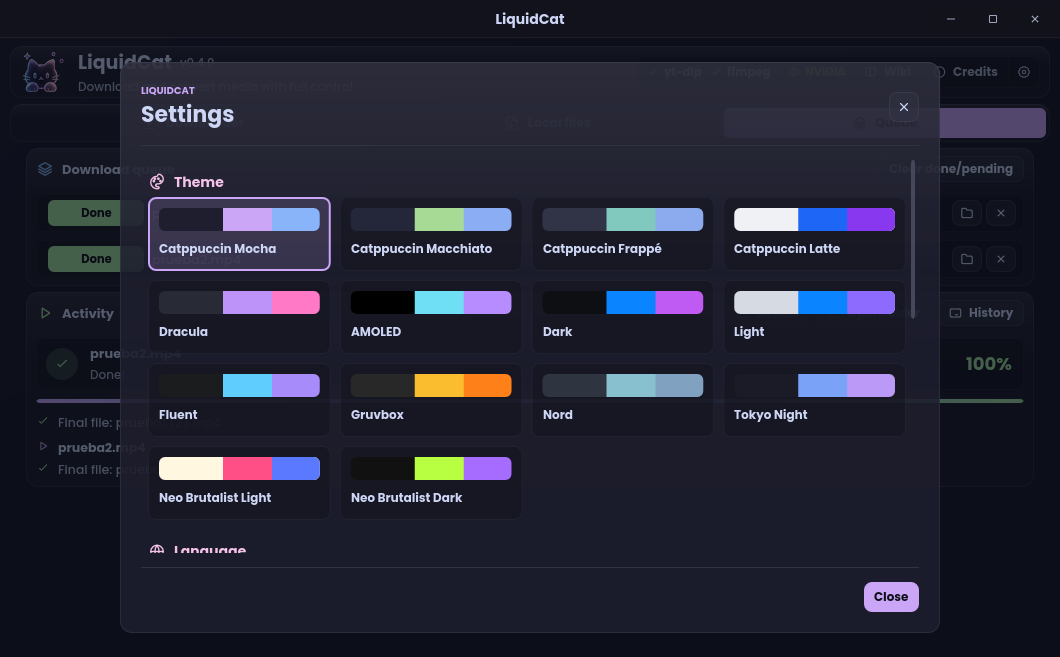
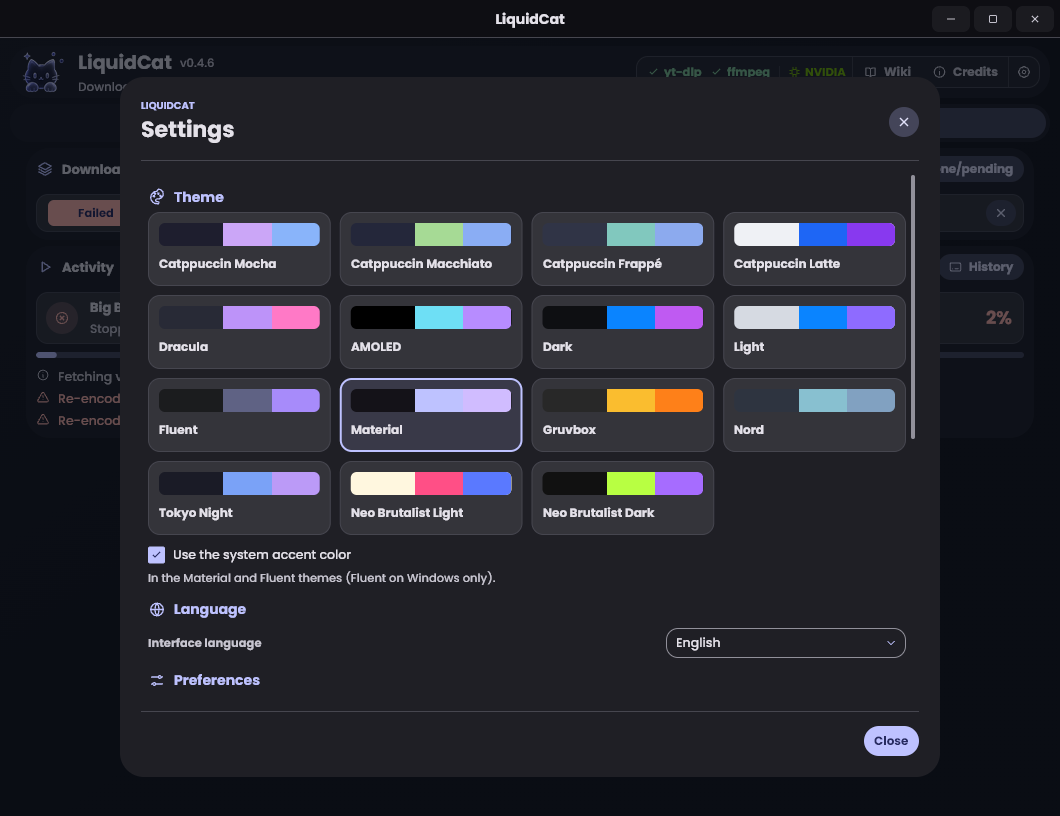
Fix site details and refresh LiquidCat screenshots
- New sharp 0.4.6 screenshots, shown at their real size (no upscaling or
  layer rasterization blur)
- Before/after: the pixelated layer no longer shows behind the sharp one
- Principles rows are vertically centered
- Team: xjuanfxx created LiquidCat, notTao created Meowgnify
- Home ends with links to both products
- Footer wordmark is revealed by the cursor and no longer blocks the text above
- GPU tile shows each vendor's logo; language words never get clipped
- Download files show the format as a tag instead of a dot

diff --git a/liquidcat/index.html b/liquidcat/index.html
@@ -73,7 +73,7 @@
         <div class="tile" data-reveal>
           <h3 data-i18n="lc.t_gpu_h">GPU accelerated</h3>
           <p data-i18n="lc.t_gpu_p">Your graphics card is detected automatically, with the CPU as a fallback.</p>
-          <div class="demo enc" data-demo="encoders"><span>NVENC</span><span>AMF</span><span>Quick Sync</span><span>VAAPI</span><span>VideoToolbox</span><span>CPU</span></div>
+          <div class="demo enc" data-demo="encoders"><span title="NVENC"><svg viewBox="0 0 24 24" fill="currentColor" aria-hidden="true"><path d="M8.948 8.798v-1.43a6.7 6.7 0 0 1 .424-.018c3.922-.124 6.493 3.374 6.493 3.374s-2.774 3.851-5.75 3.851c-.398 0-.787-.062-1.158-.185v-4.346c1.528.185 1.837.857 2.747 2.385l2.04-1.714s-1.492-1.952-4-1.952a6.016 6.016 0 0 0-.796.035m0-4.735v2.138l.424-.027c5.45-.185 9.01 4.47 9.01 4.47s-4.08 4.964-8.33 4.964c-.37 0-.733-.035-1.095-.097v1.325c.3.035.61.062.91.062 3.957 0 6.82-2.023 9.593-4.408.459.371 2.34 1.263 2.73 1.652-2.633 2.208-8.772 3.984-12.253 3.984-.335 0-.653-.018-.971-.053v1.864H24V4.063zm0 10.326v1.131c-3.657-.654-4.673-4.46-4.673-4.46s1.758-1.944 4.673-2.262v1.237H8.94c-1.528-.186-2.73 1.245-2.73 1.245s.68 2.412 2.739 3.11M2.456 10.9s2.164-3.197 6.5-3.533V6.201C4.153 6.59 0 10.653 0 10.653s2.35 6.802 8.948 7.42v-1.237c-4.84-.6-6.492-5.936-6.492-5.936z"/></svg>NVENC</span><span title="AMF"><svg viewBox="0 0 24 24" fill="currentColor" aria-hidden="true"><path d="M18.324 9.137l1.559 1.56h2.556v2.557L24 14.814V9.137zM2 9.52l-2 4.96h1.309l.37-.982H3.9l.408.982h1.338L3.432 9.52zm4.209 0v4.955h1.238v-3.092l1.338 1.562h.188l1.338-1.556v3.091h1.238V9.52H10.47l-1.592 1.845L7.287 9.52zm6.283 0v4.96h2.057c1.979 0 2.88-1.046 2.88-2.472 0-1.36-.937-2.488-2.747-2.488zm1.237.91h.792c1.17 0 1.63.711 1.63 1.57 0 .728-.372 1.572-1.616 1.572h-.806zm-10.985.273l.791 1.932H2.008zm17.137.307l-1.604 1.603v2.25h2.246l1.604-1.607h-2.246z"/></svg>AMF</span><span title="Quick Sync"><svg viewBox="0 0 24 24" fill="currentColor" aria-hidden="true"><path d="M20.42 7.345v9.18h1.651v-9.18zM0 7.475v1.737h1.737V7.474zm9.78.352v6.053c0 .513.044.945.13 1.292.087.34.235.618.44.828.203.21.475.359.803.451.334.093.754.136 1.255.136h.216v-1.533c-.24 0-.445-.012-.593-.037a.672.672 0 0 1-.39-.173.693.693 0 0 1-.173-.377 4.002 4.002 0 0 1-.037-.606v-2.182h1.193v-1.416h-1.193V7.827zm-3.505 2.312c-.396 0-.76.08-1.082.241-.327.161-.6.384-.822.668l-.087.117v-.902H2.658v6.256h1.639v-3.214c.018-.588.16-1.02.433-1.299.29-.297.642-.445 1.044-.445.476 0 .841.149 1.082.433.235.284.359.686.359 1.2v3.324h1.663V12.97c.006-.89-.229-1.595-.686-2.09-.458-.495-1.1-.742-1.917-.742zm10.065.006a3.252 3.252 0 0 0-2.306.946c-.29.29-.525.637-.692 1.033a3.145 3.145 0 0 0-.254 1.273c0 .452.08.878.241 1.274.161.395.39.742.674 1.032.284.29.637.526 1.045.693.408.173.86.26 1.342.26 1.397 0 2.262-.637 2.782-1.23l-1.187-.904c-.248.297-.841.699-1.583.699-.464 0-.847-.105-1.138-.321a1.588 1.588 0 0 1-.593-.872l-.019-.056h4.915v-.587c0-.451-.08-.872-.235-1.267a3.393 3.393 0 0 0-.661-1.033 3.013 3.013 0 0 0-1.02-.692 3.345 3.345 0 0 0-1.311-.248zm-16.297.118v6.256h1.651v-6.256zm16.278 1.286c1.132 0 1.664.797 1.664 1.255l-3.32.006c0-.458.525-1.255 1.656-1.261zm7.073 3.814a.606.606 0 0 0-.606.606.606.606 0 0 0 .606.606.606.606 0 0 0 .606-.606.606.606 0 0 0-.606-.606zm-.008.105a.5.5 0 0 1 .002 0 .5.5 0 0 1 .5.501.5.5 0 0 1-.5.5.5.5 0 0 1-.5-.5.5.5 0 0 1 .498-.5zm-.233.155v.699h.13v-.285h.093l.173.285h.136l-.18-.297a.191.191 0 0 0 .118-.056c.03-.03.05-.074.05-.136 0-.068-.02-.117-.063-.154-.037-.038-.105-.056-.185-.056zm.13.099h.154c.019 0 .037.006.056.012a.064.064 0 0 1 .037.031c.013.013.012.031.012.056a.124.124 0 0 1-.012.055.164.164 0 0 1-.037.031c-.019.006-.037.013-.056.013h-.154Z"/></svg>Quick Sync</span><span title="VAAPI"><svg viewBox="0 0 24 24" fill="currentColor" aria-hidden="true"><path d="M12.504 0c-.155 0-.315.008-.48.021-4.226.333-3.105 4.807-3.17 6.298-.076 1.092-.3 1.953-1.05 3.02-.885 1.051-2.127 2.75-2.716 4.521-.278.832-.41 1.684-.287 2.489a.424.424 0 00-.11.135c-.26.268-.45.6-.663.839-.199.199-.485.267-.797.4-.313.136-.658.269-.864.68-.09.189-.136.394-.132.602 0 .199.027.4.055.536.058.399.116.728.04.97-.249.68-.28 1.145-.106 1.484.174.334.535.47.94.601.81.2 1.91.135 2.774.6.926.466 1.866.67 2.616.47.526-.116.97-.464 1.208-.946.587-.003 1.23-.269 2.26-.334.699-.058 1.574.267 2.577.2.025.134.063.198.114.333l.003.003c.391.778 1.113 1.132 1.884 1.071.771-.06 1.592-.536 2.257-1.306.631-.765 1.683-1.084 2.378-1.503.348-.199.629-.469.649-.853.023-.4-.2-.811-.714-1.376v-.097l-.003-.003c-.17-.2-.25-.535-.338-.926-.085-.401-.182-.786-.492-1.046h-.003c-.059-.054-.123-.067-.188-.135a.357.357 0 00-.19-.064c.431-1.278.264-2.55-.173-3.694-.533-1.41-1.465-2.638-2.175-3.483-.796-1.005-1.576-1.957-1.56-3.368.026-2.152.236-6.133-3.544-6.139zm.529 3.405h.013c.213 0 .396.062.584.198.19.135.33.332.438.533.105.259.158.459.166.724 0-.02.006-.04.006-.06v.105a.086.086 0 01-.004-.021l-.004-.024a1.807 1.807 0 01-.15.706.953.953 0 01-.213.335.71.71 0 00-.088-.042c-.104-.045-.198-.064-.284-.133a1.312 1.312 0 00-.22-.066c.05-.06.146-.133.183-.198.053-.128.082-.264.088-.402v-.02a1.21 1.21 0 00-.061-.4c-.045-.134-.101-.2-.183-.333-.084-.066-.167-.132-.267-.132h-.016c-.093 0-.176.03-.262.132a.8.8 0 00-.205.334 1.18 1.18 0 00-.09.4v.019c.002.089.008.179.02.267-.193-.067-.438-.135-.607-.202a1.635 1.635 0 01-.018-.2v-.02a1.772 1.772 0 01.15-.768c.082-.22.232-.406.43-.533a.985.985 0 01.594-.2zm-2.962.059h.036c.142 0 .27.048.399.135.146.129.264.288.344.465.09.199.14.4.153.667v.004c.007.134.006.2-.002.266v.08c-.03.007-.056.018-.083.024-.152.055-.274.135-.393.2.012-.09.013-.18.003-.267v-.015c-.012-.133-.04-.2-.082-.333a.613.613 0 00-.166-.267.248.248 0 00-.183-.064h-.021c-.071.006-.13.04-.186.132a.552.552 0 00-.12.27.944.944 0 00-.023.33v.015c.012.135.037.2.08.334.046.134.098.2.166.268.01.009.02.018.034.024-.07.057-.117.07-.176.136a.304.304 0 01-.131.068 2.62 2.62 0 01-.275-.402 1.772 1.772 0 01-.155-.667 1.759 1.759 0 01.08-.668 1.43 1.43 0 01.283-.535c.128-.133.26-.2.418-.2zm1.37 1.706c.332 0 .733.065 1.216.399.293.2.523.269 1.052.468h.003c.255.136.405.266.478.399v-.131a.571.571 0 01.016.47c-.123.31-.516.643-1.063.842v.002c-.268.135-.501.333-.775.465-.276.135-.588.292-1.012.267a1.139 1.139 0 01-.448-.067 3.566 3.566 0 01-.322-.198c-.195-.135-.363-.332-.612-.465v-.005h-.005c-.4-.246-.616-.512-.686-.71-.07-.268-.005-.47.193-.6.224-.135.38-.271.483-.336.104-.074.143-.102.176-.131h.002v-.003c.169-.202.436-.47.839-.601.139-.036.294-.065.466-.065zm2.8 2.142c.358 1.417 1.196 3.475 1.735 4.473.286.534.855 1.659 1.102 3.024.156-.005.33.018.513.064.646-1.671-.546-3.467-1.089-3.966-.22-.2-.232-.335-.123-.335.59.534 1.365 1.572 1.646 2.757.13.535.16 1.104.021 1.67.067.028.135.06.205.067 1.032.534 1.413.938 1.23 1.537v-.043c-.06-.003-.12 0-.18 0h-.016c.151-.467-.182-.825-1.065-1.224-.915-.4-1.646-.336-1.77.465-.008.043-.013.066-.018.135-.068.023-.139.053-.209.064-.43.268-.662.669-.793 1.187-.13.533-.17 1.156-.205 1.869v.003c-.02.334-.17.838-.319 1.35-1.5 1.072-3.58 1.538-5.348.334a2.645 2.645 0 00-.402-.533 1.45 1.45 0 00-.275-.333c.182 0 .338-.03.465-.067a.615.615 0 00.314-.334c.108-.267 0-.697-.345-1.163-.345-.467-.931-.995-1.788-1.521-.63-.4-.986-.87-1.15-1.396-.165-.534-.143-1.085-.015-1.645.245-1.07.873-2.11 1.274-2.763.107-.065.037.135-.408.974-.396.751-1.14 2.497-.122 3.854a8.123 8.123 0 01.647-2.876c.564-1.278 1.743-3.504 1.836-5.268.048.036.217.135.289.202.218.133.38.333.59.465.21.201.477.335.876.335.039.003.075.006.11.006.412 0 .73-.134.997-.268.29-.134.52-.334.74-.4h.005c.467-.135.835-.402 1.044-.7zm2.185 8.958c.037.6.343 1.245.882 1.377.588.134 1.434-.333 1.791-.765l.211-.01c.315-.007.577.01.847.268l.003.003c.208.199.305.53.391.876.085.4.154.78.409 1.066.486.527.645.906.636 1.14l.003-.007v.018l-.003-.012c-.015.262-.185.396-.498.595-.63.401-1.746.712-2.457 1.57-.618.737-1.37 1.14-2.036 1.191-.664.053-1.237-.2-1.574-.898l-.005-.003c-.21-.4-.12-1.025.056-1.69.176-.668.428-1.344.463-1.897.037-.714.076-1.335.195-1.814.12-.465.308-.797.641-.984l.045-.022zm-10.814.049h.01c.053 0 .105.005.157.014.376.055.706.333 1.023.752l.91 1.664.003.003c.243.533.754 1.064 1.189 1.637.434.598.77 1.131.729 1.57v.006c-.057.744-.48 1.148-1.125 1.294-.645.135-1.52.002-2.395-.464-.968-.536-2.118-.469-2.857-.602-.369-.066-.61-.2-.723-.4-.11-.2-.113-.602.123-1.23v-.004l.002-.003c.117-.334.03-.752-.027-1.118-.055-.401-.083-.71.043-.94.16-.334.396-.4.69-.533.294-.135.64-.202.915-.47h.002v-.002c.256-.268.445-.601.668-.838.19-.201.38-.336.663-.336zm7.159-9.074c-.435.201-.945.535-1.488.535-.542 0-.97-.267-1.28-.466-.154-.134-.28-.268-.373-.335-.164-.134-.144-.333-.074-.333.109.016.129.134.199.2.096.066.215.2.36.333.292.2.68.467 1.167.467.485 0 1.053-.267 1.398-.466.195-.135.445-.334.648-.467.156-.136.149-.267.279-.267.128.016.034.134-.147.332a8.097 8.097 0 01-.69.468zm-1.082-1.583V5.64c-.006-.02.013-.042.029-.05.074-.043.18-.027.26.004.063 0 .16.067.15.135-.006.049-.085.066-.135.066-.055 0-.092-.043-.141-.068-.052-.018-.146-.008-.163-.065zm-.551 0c-.02.058-.113.049-.166.066-.047.025-.086.068-.14.068-.05 0-.13-.02-.136-.068-.01-.066.088-.133.15-.133.08-.031.184-.047.259-.005.019.009.036.03.03.05v.02h.003z"/></svg>VAAPI</span><span title="VideoToolbox"><svg viewBox="0 0 24 24" fill="currentColor" aria-hidden="true"><path d="M12.152 6.896c-.948 0-2.415-1.078-3.96-1.04-2.04.027-3.91 1.183-4.961 3.014-2.117 3.675-.546 9.103 1.519 12.09 1.013 1.454 2.208 3.09 3.792 3.039 1.52-.065 2.09-.987 3.935-.987 1.831 0 2.35.987 3.96.948 1.637-.026 2.676-1.48 3.676-2.948 1.156-1.688 1.636-3.325 1.662-3.415-.039-.013-3.182-1.221-3.22-4.857-.026-3.04 2.48-4.494 2.597-4.559-1.429-2.09-3.623-2.324-4.39-2.376-2-.156-3.675 1.09-4.61 1.09zM15.53 3.83c.843-1.012 1.4-2.427 1.245-3.83-1.207.052-2.662.805-3.532 1.818-.78.896-1.454 2.338-1.273 3.714 1.338.104 2.715-.688 3.559-1.701"/></svg>VideoToolbox</span><span title="CPU"><svg viewBox="0 0 24 24" fill="none" stroke="currentColor" stroke-width="2" stroke-linecap="round" stroke-linejoin="round" aria-hidden="true"><rect x="6" y="6" width="12" height="12" rx="2"/><path d="M9 2v4M15 2v4M9 18v4M15 18v4M2 9h4M2 15h4M18 9h4M18 15h4"/></svg>CPU</span></div>
         </div>
         <div class="tile" data-reveal>
           <h3 data-i18n="lc.t_conv_h">Convert &amp; trim</h3>
@@ -109,7 +109,7 @@
       <div class="label" data-reveal><b>02</b><span data-i18n="lc.shots_label">A closer look</span></div>
       <div class="sec-head">
         <h2 class="h2" data-reveal data-i18n-html="lc.shots_h">Designed down to <span class="serif">the last pixel.</span></h2>
-        <p data-reveal data-i18n="lc.shots_sub">Shown with Catppuccin Mocha, the default theme. Click a screenshot to see it full size.</p>
+        <p data-reveal data-i18n="lc.shots_sub">Shown with the new Material 3 theme in LiquidCat 0.4.6. Click a screenshot to see it full size.</p>
       </div>
       <div data-reveal>
         <div class="tabs" role="tablist" data-tabs>
@@ -121,9 +121,9 @@
         </div>
         <div class="gallery" data-gallery>
           <div class="window on" data-cap="lc.cap1"><img data-zoom src="/images/liquidcat/downloader.png" alt="LiquidCat downloader" loading="lazy" width="1060" height="816"></div>
-          <div class="window" data-cap="lc.cap2"><img data-zoom src="/images/liquidcat/converter.png" alt="LiquidCat local files" loading="lazy" width="1060" height="657"></div>
-          <div class="window" data-cap="lc.cap3"><img data-zoom src="/images/liquidcat/queue-history.png" alt="LiquidCat queue and activity" loading="lazy" width="1060" height="657"></div>
-          <div class="window" data-cap="lc.cap4"><img data-zoom src="/images/liquidcat/settings.png" alt="LiquidCat settings" loading="lazy" width="1060" height="657"></div>
+          <div class="window" data-cap="lc.cap2"><img data-zoom src="/images/liquidcat/converter.png" alt="LiquidCat local files" loading="lazy" width="1060" height="816"></div>
+          <div class="window" data-cap="lc.cap3"><img data-zoom src="/images/liquidcat/queue-history.png" alt="LiquidCat queue and activity" loading="lazy" width="1060" height="816"></div>
+          <div class="window" data-cap="lc.cap4"><img data-zoom src="/images/liquidcat/settings.png" alt="LiquidCat settings" loading="lazy" width="1060" height="816"></div>
         </div>
         <p class="gallery-cap" id="galleryCap"></p>
         <div hidden>
@@ -181,7 +181,7 @@
             <h3>Windows</h3><span class="status ok" data-i18n="status.stable">Stable</span>
           </div>
           <div class="files">
-            <a class="file" data-asset="windows-x86_64.exe" href="https://github.com/Kittora/LiquidCat/releases/latest"><svg viewBox="0 0 24 24" fill="none" stroke="currentColor" stroke-width="2" stroke-linecap="round" stroke-linejoin="round" aria-hidden="true"><path d="M12 4v11m0 0 4.5-4.5M12 15l-4.5-4.5M5 20h14"/></svg>Windows 10 / 11 · x64<span class="sz" data-size>22 MB</span></a>
+            <a class="file" data-asset="windows-x86_64.exe" href="https://github.com/Kittora/LiquidCat/releases/latest"><svg viewBox="0 0 24 24" fill="none" stroke="currentColor" stroke-width="2" stroke-linecap="round" stroke-linejoin="round" aria-hidden="true"><path d="M12 4v11m0 0 4.5-4.5M12 15l-4.5-4.5M5 20h14"/></svg>Windows 10 / 11 <span class="ext">x64 .exe</span><span class="sz" data-size>22 MB</span></a>
           </div>
           <p class="note" data-i18n="lc.note_win">A single portable .exe. FFmpeg is set up on first launch. If SmartScreen warns you, choose More info → Run anyway.</p>
         </div>
@@ -192,8 +192,8 @@
             <h3>Linux</h3><span class="status dev" data-i18n="status.experimental">Experimental</span>
           </div>
           <div class="files">
-            <a class="file" data-asset="linux-x86_64.tar.gz" href="https://github.com/Kittora/LiquidCat/releases/latest"><svg viewBox="0 0 24 24" fill="none" stroke="currentColor" stroke-width="2" stroke-linecap="round" stroke-linejoin="round" aria-hidden="true"><path d="M12 4v11m0 0 4.5-4.5M12 15l-4.5-4.5M5 20h14"/></svg>x86_64 · .tar.gz<span class="sz" data-size>10 MB</span></a>
-            <a class="file" data-asset="linux-aarch64.tar.gz" href="https://github.com/Kittora/LiquidCat/releases/latest"><svg viewBox="0 0 24 24" fill="none" stroke="currentColor" stroke-width="2" stroke-linecap="round" stroke-linejoin="round" aria-hidden="true"><path d="M12 4v11m0 0 4.5-4.5M12 15l-4.5-4.5M5 20h14"/></svg>ARM64 · .tar.gz<span class="sz" data-size>10 MB</span></a>
+            <a class="file" data-asset="linux-x86_64.tar.gz" href="https://github.com/Kittora/LiquidCat/releases/latest"><svg viewBox="0 0 24 24" fill="none" stroke="currentColor" stroke-width="2" stroke-linecap="round" stroke-linejoin="round" aria-hidden="true"><path d="M12 4v11m0 0 4.5-4.5M12 15l-4.5-4.5M5 20h14"/></svg>x86_64 <span class="ext">.tar.gz</span><span class="sz" data-size>10 MB</span></a>
+            <a class="file" data-asset="linux-aarch64.tar.gz" href="https://github.com/Kittora/LiquidCat/releases/latest"><svg viewBox="0 0 24 24" fill="none" stroke="currentColor" stroke-width="2" stroke-linecap="round" stroke-linejoin="round" aria-hidden="true"><path d="M12 4v11m0 0 4.5-4.5M12 15l-4.5-4.5M5 20h14"/></svg>ARM64 <span class="ext">.tar.gz</span><span class="sz" data-size>10 MB</span></a>
           </div>
           <p class="note" data-i18n-html="lc.note_linux">Extract and run <code>./LiquidCat</code>. Install FFmpeg from your package manager.</p>
         </div>
@@ -204,8 +204,8 @@
             <h3>macOS</h3><span class="status dev" data-i18n="status.experimental">Experimental</span>
           </div>
           <div class="files">
-            <a class="file" data-asset="macos-arm64.zip" href="https://github.com/Kittora/LiquidCat/releases/latest"><svg viewBox="0 0 24 24" fill="none" stroke="currentColor" stroke-width="2" stroke-linecap="round" stroke-linejoin="round" aria-hidden="true"><path d="M12 4v11m0 0 4.5-4.5M12 15l-4.5-4.5M5 20h14"/></svg>Apple Silicon · .zip<span class="sz" data-size>8 MB</span></a>
-            <a class="file" data-asset="macos-x86_64.zip" href="https://github.com/Kittora/LiquidCat/releases/latest"><svg viewBox="0 0 24 24" fill="none" stroke="currentColor" stroke-width="2" stroke-linecap="round" stroke-linejoin="round" aria-hidden="true"><path d="M12 4v11m0 0 4.5-4.5M12 15l-4.5-4.5M5 20h14"/></svg>Intel · .zip<span class="sz" data-size>9 MB</span></a>
+            <a class="file" data-asset="macos-arm64.zip" href="https://github.com/Kittora/LiquidCat/releases/latest"><svg viewBox="0 0 24 24" fill="none" stroke="currentColor" stroke-width="2" stroke-linecap="round" stroke-linejoin="round" aria-hidden="true"><path d="M12 4v11m0 0 4.5-4.5M12 15l-4.5-4.5M5 20h14"/></svg>Apple Silicon <span class="ext">.zip</span><span class="sz" data-size>8 MB</span></a>
+            <a class="file" data-asset="macos-x86_64.zip" href="https://github.com/Kittora/LiquidCat/releases/latest"><svg viewBox="0 0 24 24" fill="none" stroke="currentColor" stroke-width="2" stroke-linecap="round" stroke-linejoin="round" aria-hidden="true"><path d="M12 4v11m0 0 4.5-4.5M12 15l-4.5-4.5M5 20h14"/></svg>Intel <span class="ext">.zip</span><span class="sz" data-size>9 MB</span></a>
           </div>
           <p class="note" data-i18n-html="lc.note_mac">Not notarized yet: the first time, right-click the app and choose <b>Open</b>. Install FFmpeg with <code>brew install ffmpeg</code>.</p>
         </div>

diff --git a/style.css b/style.css
@@ -207,7 +207,7 @@ h1, h2, h3 { font-weight:500; letter-spacing:-.035em; line-height:1.04; }
   border:1px solid var(--line-2);
   box-shadow:0 1px 0 rgba(255,255,255,.08) inset, 0 40px 100px -30px rgba(0,0,0,.8), 0 0 0 1px rgba(0,0,0,.4);
   transform:rotateX(var(--rx, 0deg)) rotateY(var(--ry, 0deg)); transform-style:preserve-3d;
-  transition:transform .9s var(--soft); will-change:transform; }
+  transition:transform .9s var(--soft); }
 .window img { width:100%; height:auto; }
 .window::after { content:""; position:absolute; inset:0; pointer-events:none;
   background:radial-gradient(600px circle at var(--gx, 50%) var(--gy, 0%), rgba(255,255,255,.10), transparent 40%); }
@@ -264,6 +264,7 @@ h1, h2, h3 { font-weight:500; letter-spacing:-.035em; line-height:1.04; }
 .ba { background:radial-gradient(70% 70% at 50% 45%, color-mix(in srgb, var(--accent) 16%, transparent), transparent 70%), #0f0f16; }
 .ba canvas { padding:0; }
 .ba .after { clip-path:inset(0 0 0 var(--pos)); }
+.ba .before { clip-path:inset(0 calc(100% - var(--pos)) 0 0); }
 .ba .bar { position:absolute; top:0; bottom:0; left:var(--pos); width:2px; margin-left:-1px; background:#fff; box-shadow:0 0 18px rgba(0,0,0,.6); }
 .ba .knob { position:absolute; top:50%; left:var(--pos); width:44px; height:44px; margin:-22px 0 0 -22px; border-radius:50%;
   background:#fff; color:#111; display:grid; place-items:center; box-shadow:0 8px 24px rgba(0,0,0,.5);
@@ -273,11 +274,11 @@ h1, h2, h3 { font-weight:500; letter-spacing:-.035em; line-height:1.04; }
 .ba .tag { position:absolute; top:14px; font-family:var(--mono); font-size:11.5px; padding:4px 9px; border-radius:8px;
   background:rgba(0,0,0,.55); backdrop-filter:blur(6px); color:#fff; }
 .ba .tag.l { left:14px; } .ba .tag.r { right:14px; }
-.ba.animating .after, .ba.animating .bar, .ba.animating .knob { transition:clip-path 1.1s var(--soft), left 1.1s var(--soft), transform .6s var(--spring); }
+.ba.animating .after, .ba.animating .before, .ba.animating .bar, .ba.animating .knob { transition:clip-path 1.1s var(--soft), left 1.1s var(--soft), transform .6s var(--spring); }
 
 /* ---------------- Principios ---------------- */
 .principles { border-top:1px solid var(--line); }
-.principle { position:relative; display:grid; grid-template-columns:90px minmax(0, 1fr) minmax(0, 1.2fr); gap:24px; align-items:baseline;
+.principle { position:relative; display:grid; grid-template-columns:90px minmax(0, 1fr) minmax(0, 1.2fr); gap:24px; align-items:center;
   padding:34px 8px; border-bottom:1px solid var(--line); overflow:hidden; }
 .principle::before { content:""; position:absolute; inset:0; z-index:-1; background:linear-gradient(90deg, var(--accent-soft), transparent 70%);
   transform:scaleX(0); transform-origin:0 50%; transition:transform .8s var(--out); }
@@ -311,6 +312,21 @@ h1, h2, h3 { font-weight:500; letter-spacing:-.035em; line-height:1.04; }
 .final .cat { width:110px; margin:0 auto 18px; }
 .final::before { content:""; position:absolute; z-index:-1; left:50%; top:55%; width:min(1000px, 100%); height:520px; transform:translate(-50%, -50%); opacity:.7;
   border-radius:50%; background:radial-gradient(closest-side, color-mix(in srgb, var(--accent) 26%, transparent), transparent); }
+
+.picks { display:grid; grid-template-columns:repeat(2, minmax(0, 1fr)); gap:16px; max-width:1000px; margin:0 auto; text-align:left; }
+.pick { position:relative; display:flex; align-items:center; gap:16px; padding:20px 22px; border-radius:20px; border:1px solid var(--line-2);
+  background:color-mix(in srgb, var(--panel) 80%, transparent); backdrop-filter:blur(8px);
+  transition:border-color .3s, background .3s, transform .7s var(--spring); }
+.pick:hover { border-color:var(--accent-line); background:color-mix(in srgb, var(--accent) 6%, var(--panel)); transform:translateY(-6px) scale(1.02); }
+.pick:active { transform:scale(.97); transition-duration:.15s; }
+.pick img { width:52px; height:52px; border-radius:13px; transition:transform .9s var(--spring); }
+.pick:hover img { transform:rotate(-10deg) scale(1.1); }
+.pick div { flex:1; min-width:0; }
+.pick b { display:block; font-size:1.15rem; font-weight:600; letter-spacing:-.02em; }
+.pick div span { color:var(--muted); font-size:13.5px; }
+.pick .status { flex:0 0 auto; }
+.pick .arrow { width:18px; height:18px; color:var(--dim); transition:transform .6s var(--spring), color .2s; }
+.pick:hover .arrow { transform:translateX(5px); color:var(--accent); }
 
 /* ---------------- Página de producto ---------------- */
 .app-hero { padding:160px 0 0; text-align:center; position:relative; }
@@ -364,8 +380,9 @@ h1, h2, h3 { font-weight:500; letter-spacing:-.035em; line-height:1.04; }
 
 /* Demo: codificadores */
 .enc { position:relative; display:flex; flex-wrap:wrap; gap:8px; }
-.enc span { position:relative; z-index:1; font-family:var(--mono); font-size:12.5px; padding:7px 11px; border-radius:9px;
+.enc span { position:relative; z-index:1; display:inline-flex; align-items:center; gap:7px; font-family:var(--mono); font-size:12.5px; padding:7px 11px; border-radius:9px;
   border:1px solid var(--line-2); color:var(--muted); transition:color .3s, border-color .3s, transform .6s var(--spring); }
+.enc span svg { width:14px; height:14px; flex:0 0 auto; }
 .enc span.on { color:var(--ink); border-color:var(--accent); background:var(--accent); transform:scale(1.08); }
 
 /* Demo: formatos que giran */
@@ -378,8 +395,8 @@ h1, h2, h3 { font-weight:500; letter-spacing:-.035em; line-height:1.04; }
 @keyframes flipin { from { transform:rotateX(-90deg); opacity:0; } to { transform:none; opacity:1; } }
 
 /* Demo: idiomas */
-.words { position:relative; height:1.2em; font-size:clamp(2rem, 3.4vw, 2.6rem); letter-spacing:-.03em; overflow:hidden; }
-.words span { position:absolute; left:0; top:0; transform:translateY(110%); opacity:0;
+.words { position:relative; height:1.4em; line-height:1.4; font-size:clamp(1.6rem, 2.5vw, 2.15rem); letter-spacing:-.03em; overflow:hidden; }
+.words span { position:absolute; left:0; top:0; white-space:nowrap; padding-right:.15em; transform:translateY(110%); opacity:0;
   transition:transform .8s var(--soft), opacity .4s; }
 .words span.on { transform:none; opacity:1; }
 .words span.out { transform:translateY(-110%); opacity:0; }
@@ -455,6 +472,7 @@ h1, h2, h3 { font-weight:500; letter-spacing:-.035em; line-height:1.04; }
   background:var(--bg-2); font-size:14px; transition:border-color .25s, background .25s, transform .5s var(--spring); }
 .file:hover { border-color:var(--accent-line); background:var(--accent-soft); }
 .file:active { transform:scale(.97); }
+.file .ext { font-family:var(--mono); font-size:11.5px; color:var(--muted); padding:2px 7px; border-radius:6px; background:rgba(255,255,255,.06); }
 .file .sz { margin-left:auto; font-family:var(--mono); font-size:12px; color:var(--dim); }
 .file svg { width:16px; height:16px; color:var(--dim); transition:transform .6s var(--spring), color .25s; }
 .file:hover svg { transform:translateY(3px); color:var(--accent); }
@@ -529,12 +547,17 @@ footer { position:relative; border-top:1px solid var(--line); padding:72px 0 0; 
 .foot-col h4 { font-family:var(--mono); font-size:11.5px; font-weight:400; letter-spacing:.06em; text-transform:uppercase; color:var(--dim); margin-bottom:16px; }
 .foot-col a { display:block; width:fit-content; padding:4px 0; color:var(--muted); font-size:14.5px; transition:color .2s, transform .5s var(--spring); }
 .foot-col a:hover { color:var(--text); transform:translateX(4px); }
-.foot-bottom { display:flex; justify-content:space-between; flex-wrap:wrap; gap:10px; margin-top:64px; padding:22px 0; border-top:1px solid var(--line);
+.foot-bottom { position:relative; z-index:1; display:flex; justify-content:space-between; flex-wrap:wrap; gap:10px; margin-top:64px; padding:22px 0; border-top:1px solid var(--line);
   font-family:var(--mono); font-size:12px; color:var(--dim); }
-.wordmark { font-size:clamp(5rem, 22vw, 19rem); font-weight:600; letter-spacing:-.07em; line-height:.78; text-align:center;
-  margin-top:30px; color:transparent; -webkit-text-stroke:1px var(--line-2); user-select:none;
-  background:radial-gradient(600px circle at var(--wx, 50%) var(--wy, 50%), var(--accent), transparent 60%);
-  -webkit-background-clip:text; background-clip:text; transition:-webkit-text-stroke-color .3s; }
+.wordmark { position:relative; z-index:0; pointer-events:none; user-select:none;
+  font-size:clamp(5rem, 22vw, 19rem); font-weight:600; letter-spacing:-.07em; line-height:.78; text-align:center; margin-top:30px;
+  color:transparent; --wx:-9999px; --wy:-9999px;
+  background:
+    radial-gradient(380px circle at var(--wx) var(--wy), var(--accent), color-mix(in srgb, var(--accent) 40%, transparent) 45%, transparent 70%),
+    linear-gradient(rgba(255,255,255,.035), rgba(255,255,255,.035));
+  -webkit-background-clip:text; background-clip:text; }
+
+@media (hover:none) { .wordmark { --wx:50%; --wy:55%; } }
 
 /* ---------------- 404 ---------------- */
 .lost { min-height:100vh; display:grid; place-items:center; text-align:center; padding:120px 24px 60px; }
@@ -567,7 +590,7 @@ main.swapping { opacity:.15; filter:blur(4px); }
   .bento .tile, .bento .tile.w3, .bento .tile.w4 { grid-column:span 3; }
   .bento .tile.w6, .bento .tile.w4 { grid-column:span 6; }
   .platforms { grid-template-columns:1fr; }
-  .team { grid-template-columns:1fr; }
+  .team, .picks { grid-template-columns:1fr; }
   .changes { grid-template-columns:1fr; gap:20px; }
   .principle { grid-template-columns:60px minmax(0, 1fr); }
   .principle p { grid-column:2; }
@@ -594,6 +617,7 @@ main.swapping { opacity:.15; filter:blur(4px); }
   .q .st { display:none; }
   .product { padding:24px; }
   .float-chip { display:none; }
+  .pick .status { display:none; }
   .stage .peek { width:70px; top:-46px; right:20px; }
   .showcase { margin-top:56px; }
   .stat { padding:24px 18px; }
@@ -604,3 +628,8 @@ main.swapping { opacity:.15; filter:blur(4px); }
   .lines .line > span { transform:none; }
   .marquee-track { animation:none; }
 }
+
+/* Las capturas miden 1060 px: nunca se amplian por encima de su tamano real. */
+.showcase .window, .gallery { max-width:1062px; margin-left:auto; margin-right:auto; }
+.gallery-cap { max-width:1062px; margin-left:auto; margin-right:auto; }
+.tabs { display:flex; width:fit-content; margin-left:auto; margin-right:auto; }

diff --git a/index.html b/index.html
@@ -93,7 +93,7 @@
               <a class="btn btn-ghost btn-sm" href="/liquidcat/"><span data-i18n="btn.learn">Learn more</span><svg class="arrow" viewBox="0 0 24 24" fill="none" stroke="currentColor" stroke-width="2" stroke-linecap="round" aria-hidden="true"><path d="M5 12h14M13 6l6 6-6 6"/></svg></a>
             </div>
           </div>
-          <div class="product-visual stage" data-tilt><div class="window"><img src="/images/liquidcat/converter.png" alt="LiquidCat converting local files" loading="lazy" width="1060" height="657"></div></div>
+          <div class="product-visual stage" data-tilt><div class="window"><img src="/images/liquidcat/converter.png" alt="LiquidCat converting local files" loading="lazy" width="1060" height="816"></div></div>
         </article>
         <article class="product" data-reveal>
           <div class="product-info">
@@ -150,11 +150,11 @@
       <div class="team">
         <div class="member" data-reveal>
           <div class="av"><img src="/images/juanfx.png" alt="xjuanfxx" loading="lazy"></div>
-          <div><h3>xjuanfxx</h3><div class="role" data-i18n="team.xjuan_role">Founder &amp; lead developer</div><p data-i18n="team.xjuan_p">Created LiquidCat and Meowgnify. Product, architecture and development.</p><a class="gh" href="https://github.com/xjuanfxx" target="_blank" rel="noopener">@xjuanfxx ↗</a></div>
+          <div><h3>xjuanfxx</h3><div class="role" data-i18n="team.xjuan_role">Founder · creator of LiquidCat</div><p data-i18n="team.xjuan_p">Created LiquidCat: product, design, architecture and development.</p><a class="gh" href="https://github.com/xjuanfxx" target="_blank" rel="noopener">@xjuanfxx ↗</a></div>
         </div>
         <div class="member" data-reveal>
           <div class="av"><img src="https://github.com/notTao.png?size=192" alt="notTao" loading="lazy"></div>
-          <div><h3>notTao</h3><div class="role" data-i18n="team.notao_role">Developer · optimization · themes</div><p data-i18n="team.notao_p">Code optimization, bug fixes, themes and upscaler engine support.</p><a class="gh" href="https://github.com/notTao" target="_blank" rel="noopener">@notTao ↗</a></div>
+          <div><h3>notTao</h3><div class="role" data-i18n="team.notao_role">Creator of Meowgnify</div><p data-i18n="team.notao_p">Created Meowgnify and its upscaling engines. Also helps LiquidCat with optimization, fixes and themes.</p><a class="gh" href="https://github.com/notTao" target="_blank" rel="noopener">@notTao ↗</a></div>
         </div>
       </div>
     </div>
@@ -163,11 +163,19 @@
   <section class="final">
     <div class="wrap">
       <img class="cat" src="/images/tap-tap-cat.gif" alt="" aria-hidden="true" data-reveal="pop">
-      <h2 class="display" data-reveal data-i18n-html="home.cta_h">Ready when <span class="serif accent">you are.</span></h2>
-      <p class="lede" data-reveal data-i18n="home.cta_p">LiquidCat is free for Windows, Linux and macOS. No installer, no account and no Python.</p>
-      <div class="actions" data-reveal>
-        <a class="btn btn-primary btn-lg" href="/liquidcat/#download" data-magnetic><span data-i18n="lc.dl_btn">Download LiquidCat</span><svg class="arrow" viewBox="0 0 24 24" fill="none" stroke="currentColor" stroke-width="2" stroke-linecap="round" aria-hidden="true"><path d="M5 12h14M13 6l6 6-6 6"/></svg></a>
-        <a class="btn btn-ghost btn-lg" href="https://github.com/Kittora/LiquidCat" target="_blank" rel="noopener" data-i18n="btn.source">View source</a>
+      <h2 class="display" data-reveal data-i18n-html="home.cta_h">Explore our <span class="serif accent">products.</span></h2>
+      <p class="lede" data-reveal data-i18n="home.cta_p">Free, open source and made with care. Pick one to get started.</p>
+      <div class="picks">
+        <a class="pick" href="/liquidcat/" data-reveal="pop">
+          <img src="/images/LiquidCat-Logo.png" alt="">
+          <div><b>LiquidCat</b><span data-i18n="pick.lc">Download, convert and re-encode media</span></div>
+          <span class="status ok" data-i18n="status.available">Available</span><svg class="arrow" viewBox="0 0 24 24" fill="none" stroke="currentColor" stroke-width="2" stroke-linecap="round" aria-hidden="true"><path d="M5 12h14M13 6l6 6-6 6"/></svg>
+        </a>
+        <a class="pick" href="/meowgnify/" data-reveal="pop">
+          <img src="/images/Meowgnify-Logo.png" alt="">
+          <div><b>Meowgnify</b><span data-i18n="pick.mw">Upscale video and images with AI</span></div>
+          <span class="status dev" data-i18n="status.dev">In development</span><svg class="arrow" viewBox="0 0 24 24" fill="none" stroke="currentColor" stroke-width="2" stroke-linecap="round" aria-hidden="true"><path d="M5 12h14M13 6l6 6-6 6"/></svg>
+        </a>
       </div>
     </div>
   </section>

diff --git a/script.js b/script.js
@@ -48,12 +48,13 @@ const I18N_ES = {
   "home.team_label":"Equipo",
   "home.team_h":"Dos amigos, <span class=\"serif\">un estudio.</span>",
   "home.team_sub":"Hacemos las herramientas que queremos usar cada día y las compartimos con todos.",
-  "home.cta_h":"Listo cuando <span class=\"serif accent\">tú lo estés.</span>",
-  "home.cta_p":"LiquidCat es gratis para Windows, Linux y macOS. Sin instalador, sin cuenta y sin Python.",
-  "team.xjuan_role":"Fundador y desarrollador principal",
-  "team.xjuan_p":"Creador de LiquidCat y Meowgnify. Producto, arquitectura y desarrollo.",
-  "team.notao_role":"Desarrollador · optimización · temas",
-  "team.notao_p":"Optimización del código, corrección de errores, temas y soporte de los motores de reescalado.",
+  "home.cta_h":"Descubre nuestros <span class=\"serif accent\">productos.</span>",
+  "home.cta_p":"Gratis, de código abierto y hechos con cariño. Elige uno para empezar.",
+  "pick.lc":"Descarga, convierte y reencodea medios", "pick.mw":"Reescala video e imágenes con IA",
+  "team.xjuan_role":"Fundador · creador de LiquidCat",
+  "team.xjuan_p":"Creó LiquidCat: producto, diseño, arquitectura y desarrollo.",
+  "team.notao_role":"Creador de Meowgnify",
+  "team.notao_p":"Creó Meowgnify y sus motores de reescalado. También ayuda en LiquidCat con optimización, correcciones y temas.",
 
   // LiquidCat
   "lc.h1":"<span class=\"line\"><span>Descarga. Convierte.</span></span><span class=\"line\"><span><span class=\"serif accent\">Ronronea.</span></span></span>",
@@ -75,7 +76,7 @@ const I18N_ES = {
   "lc.t_queue_p":"Encola todos los trabajos que quieras y síguelos en la tarjeta flotante de Actividad. Te avisa con una notificación al terminar.",
   "lc.shots_label":"De cerca",
   "lc.shots_h":"Diseñado hasta <span class=\"serif\">el último píxel.</span>",
-  "lc.shots_sub":"Con Catppuccin Mocha, el tema predeterminado. Haz clic en una captura para verla en grande.",
+  "lc.shots_sub":"Con el nuevo tema Material 3 de LiquidCat 0.4.6. Haz clic en una captura para verla en grande.",
   "lc.shot1":"Descargador", "lc.shot2":"Archivos locales", "lc.shot3":"Cola y actividad", "lc.shot4":"Ajustes",
   "lc.cap1":"Pega un enlace para ver la vista previa, elige el formato y descarga.",
   "lc.cap2":"Convierte varios archivos a la vez y síguelos en la tarjeta flotante de Actividad.",
@@ -366,10 +367,12 @@ function setupPointer() {
   if (wm) {
     addEventListener("pointermove", e => {
       const r = wm.getBoundingClientRect();
-      if (e.clientY < r.top - 200) return;
       wm.style.setProperty("--wx", `${e.clientX - r.left}px`);
       wm.style.setProperty("--wy", `${e.clientY - r.top}px`);
     }, { passive: true });
+    document.documentElement.addEventListener("pointerleave", () => {
+      wm.style.setProperty("--wx", "-9999px"); wm.style.setProperty("--wy", "-9999px");
+    });
   }
 }
 

diff --git a/credits/index.html b/credits/index.html
@@ -50,11 +50,11 @@
       <div class="team">
         <div class="member" data-reveal>
           <div class="av"><img src="/images/juanfx.png" alt="xjuanfxx" loading="lazy"></div>
-          <div><h3>xjuanfxx</h3><div class="role" data-i18n="team.xjuan_role">Founder &amp; lead developer</div><p data-i18n="team.xjuan_p">Created LiquidCat and Meowgnify. Product, architecture and development.</p><a class="gh" href="https://github.com/xjuanfxx" target="_blank" rel="noopener">@xjuanfxx ↗</a></div>
+          <div><h3>xjuanfxx</h3><div class="role" data-i18n="team.xjuan_role">Founder · creator of LiquidCat</div><p data-i18n="team.xjuan_p">Created LiquidCat: product, design, architecture and development.</p><a class="gh" href="https://github.com/xjuanfxx" target="_blank" rel="noopener">@xjuanfxx ↗</a></div>
         </div>
         <div class="member" data-reveal>
           <div class="av"><img src="https://github.com/notTao.png?size=192" alt="notTao" loading="lazy"></div>
-          <div><h3>notTao</h3><div class="role" data-i18n="team.notao_role">Developer · optimization · themes</div><p data-i18n="team.notao_p">Code optimization, bug fixes, themes and upscaler engine support.</p><a class="gh" href="https://github.com/notTao" target="_blank" rel="noopener">@notTao ↗</a></div>
+          <div><h3>notTao</h3><div class="role" data-i18n="team.notao_role">Creator of Meowgnify</div><p data-i18n="team.notao_p">Created Meowgnify and its upscaling engines. Also helps LiquidCat with optimization, fixes and themes.</p><a class="gh" href="https://github.com/notTao" target="_blank" rel="noopener">@notTao ↗</a></div>
         </div>
       </div>
     </div>
